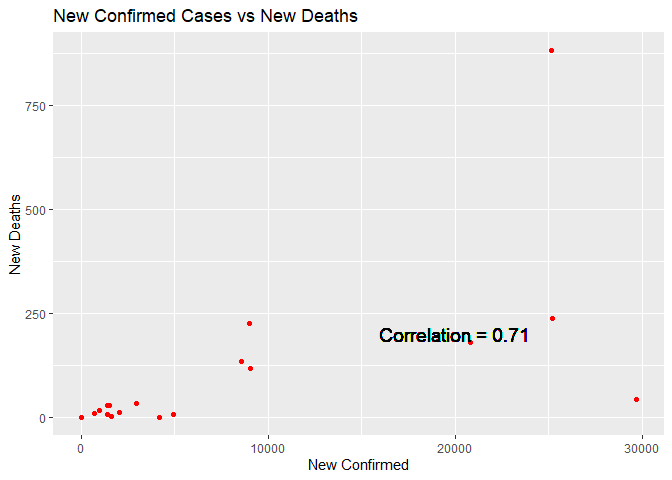
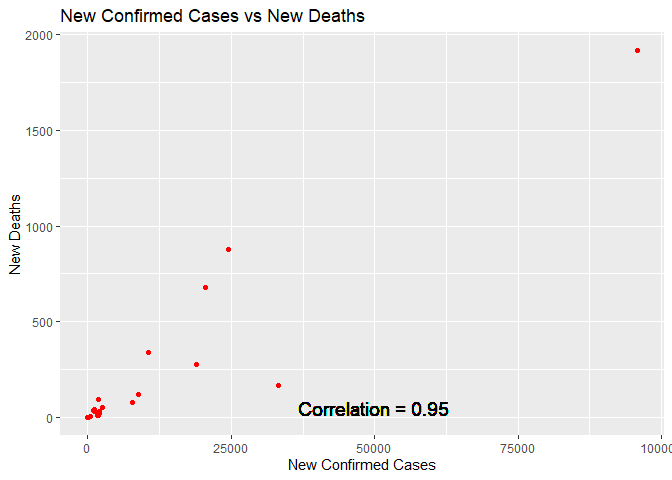
commit

diff --git a/README.md b/README.md
@@ -297,7 +297,7 @@ ggplot(Combo, aes(x = Cases, y = Country)) +
 geom_boxplot() + geom_jitter(aes(color = Status)) + ggtitle("Boxplot for Confirmed Cases")
 ```
 
-![](README_files/figure-gfm/unnamed-chunk-23-1.png)<!-- -->
+![](README_files/figure-gfm/unnamed-chunk-28-1.png)<!-- -->
 
 The following code calculates numerical summaries for daily cases
 confirmed for the two countries. The mean case count per day for Norway
@@ -324,7 +324,7 @@ appears to report each day that had a confirmed case status.
 ggplot(Combo, aes(x = Country)) + geom_bar(aes(fill = Status), position = "dodge") + xlab("Country") + scale_fill_discrete(name = "") + ggtitle("Confirmed Case Statuses")
 ```
 
-![](README_files/figure-gfm/unnamed-chunk-25-1.png)<!-- -->
+![](README_files/figure-gfm/unnamed-chunk-30-1.png)<!-- -->
 
 The following contingency table reports the number of confirmed case
 statuses for South Africa and Mexico returned from the Day 1 API. The
@@ -348,7 +348,7 @@ the first recorded case. Case statuses were similar for each country.
 ggplot(Day1, aes(x = Country)) + geom_bar(aes(fill = Status), position = "dodge") + xlab("Country") + scale_fill_discrete(name = "") + ggtitle("Confirmed Cases Statuses")
 ```
 
-![](README_files/figure-gfm/unnamed-chunk-27-1.png)<!-- -->
+![](README_files/figure-gfm/unnamed-chunk-32-1.png)<!-- -->
 
 The following code calculates numerical summaries for daily cases since
 Day 1 for Mexico and South Africa. Average cases for Mexico were
@@ -409,10 +409,10 @@ confirmed cases and new deaths.
 ``` r
 correlation <- cor(resp2Df$NewConfirmed, resp2Df$NewDeaths)
 g <- ggplot(resp2Df, aes(x = NewConfirmed, y = NewDeaths))+ labs(y="New Deaths", x = "New Confirmed Cases")
-g + geom_point(col = "Red") + ggtitle("New Confirmed Cases vs New Deaths") + geom_text(x = 125000, y = 50, size = 5, label = paste0("Correlation = ", round(correlation, 2)))
+g + geom_point(col = "Red") + ggtitle("New Confirmed Cases vs New Deaths") + geom_text(x = 50000, y = 50, size = 5, label = paste0("Correlation = ", round(correlation, 2)))
 ```
 
-![](README_files/figure-gfm/unnamed-chunk-31-1.png)<!-- -->
+![](README_files/figure-gfm/unnamed-chunk-36-1.png)<!-- -->
 
 The following code creates a new variable which calculates new deaths to
 new confirmed cases for the countries in the summary data set. The ratio
@@ -436,10 +436,10 @@ highest frequency of cases was between 50,000 and 250,000 leveling off
 in the 750,000 range.
 
 ``` r
-ggplot(data = resp2Df, aes(TotalConfirmed)) + geom_histogram(breaks = seq(20000, 900000, by = 50000), col = "blue", fill = "purple", alpha = .2) + labs(title = "Total Confirmed Cases for All Countries") + xlab("Total Confirmed")
+ggplot(data = resp2Df, aes(TotalConfirmed)) + geom_histogram(breaks = seq(20000, 900000, by = 70000), col = "blue", fill = "purple", alpha = .2) + labs(title = "Total Confirmed Cases for All Countries") + xlab("Total Confirmed")
 ```
 
-![](README_files/figure-gfm/unnamed-chunk-33-1.png)<!-- -->
+![](README_files/figure-gfm/unnamed-chunk-38-1.png)<!-- -->
 
 # Conclusion
 
